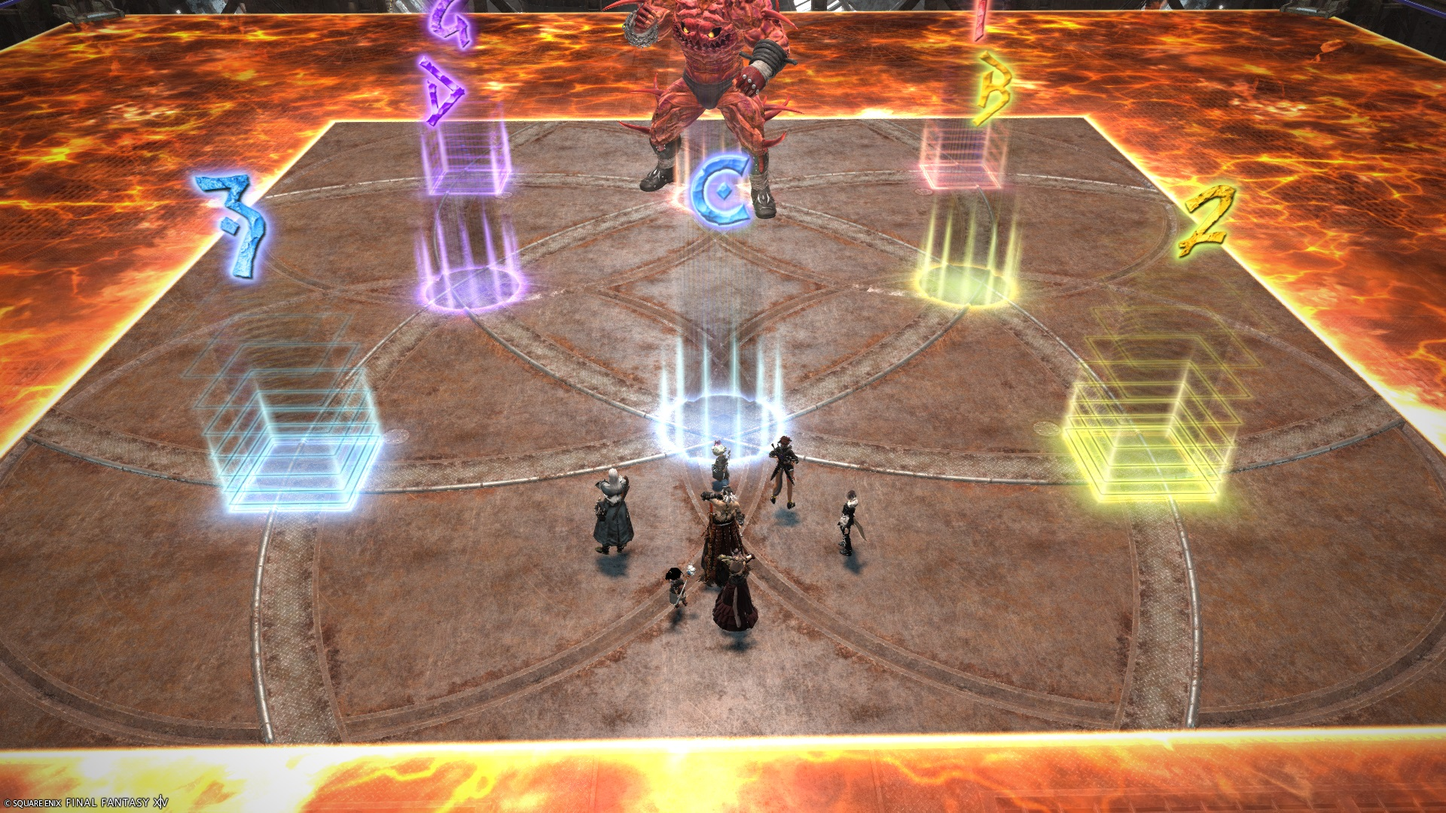
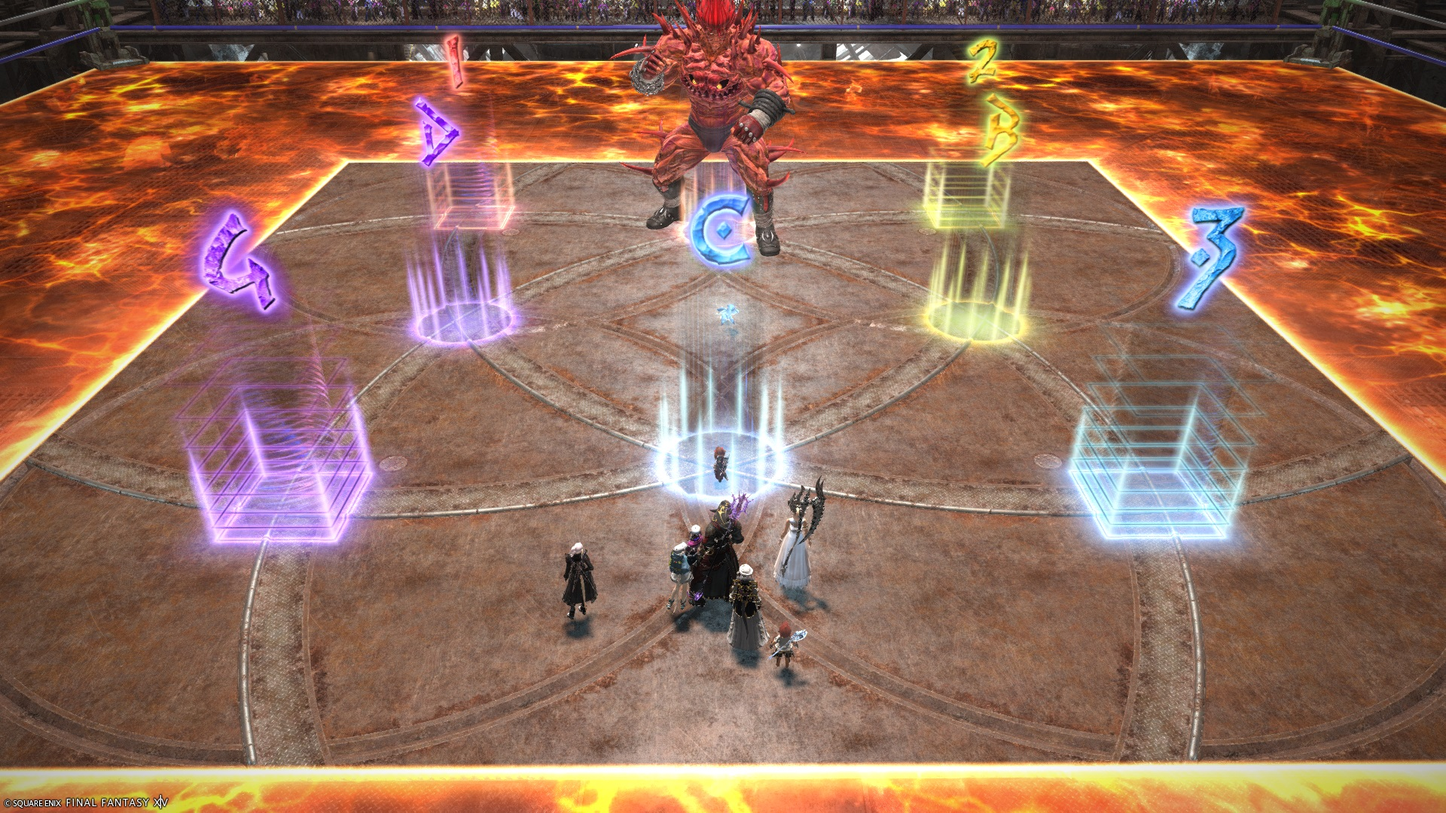
Update markers

diff --git a/_current/m3s.en.md b/_current/m3s.en.md
@@ -26,6 +26,25 @@ permalink: /7.0_dawntrail/savage_raids/m3s/
 ## Markers
 
 ![]({{site.baseurl}}/images/7.0_dawntrail/m3s/markers.jpg)
+<details markdown=block>
+<summary>XIVLauncher WaymarkPresetPlugin positions</summary>
+
+```json
+{
+  "Name":"M3S",
+  "MapID":990,
+  "A":{"X":100.0,"Y":0.0,"Z":93.0,"ID":0,"Active":true},
+  "B":{"X":107.0,"Y":0.0,"Z":100.0,"ID":1,"Active":true},
+  "C":{"X":100.0,"Y":0.0,"Z":107.0,"ID":2,"Active":true},
+  "D":{"X":93.0,"Y":0.0,"Z":100.0,"ID":3,"Active":true},
+  "One":{"X":91.5,"Y":0.0,"Z":91.5,"ID":7,"Active":true},
+  "Two":{"X":108.5,"Y":0.0,"Z":91.5,"ID":4,"Active":true},
+  "Three":{"X":108.5,"Y":0.0,"Z":108.5,"ID":5,"Active":true},
+  "Four":{"X":91.5,"Y":0.0,"Z":108.5,"ID":6,"Active":true}
+}
+```
+
+</details>
 
 <script data-goatcounter="https://tuufless.goatcounter.com/count"
         async src="//gc.zgo.at/count.js"></script>
